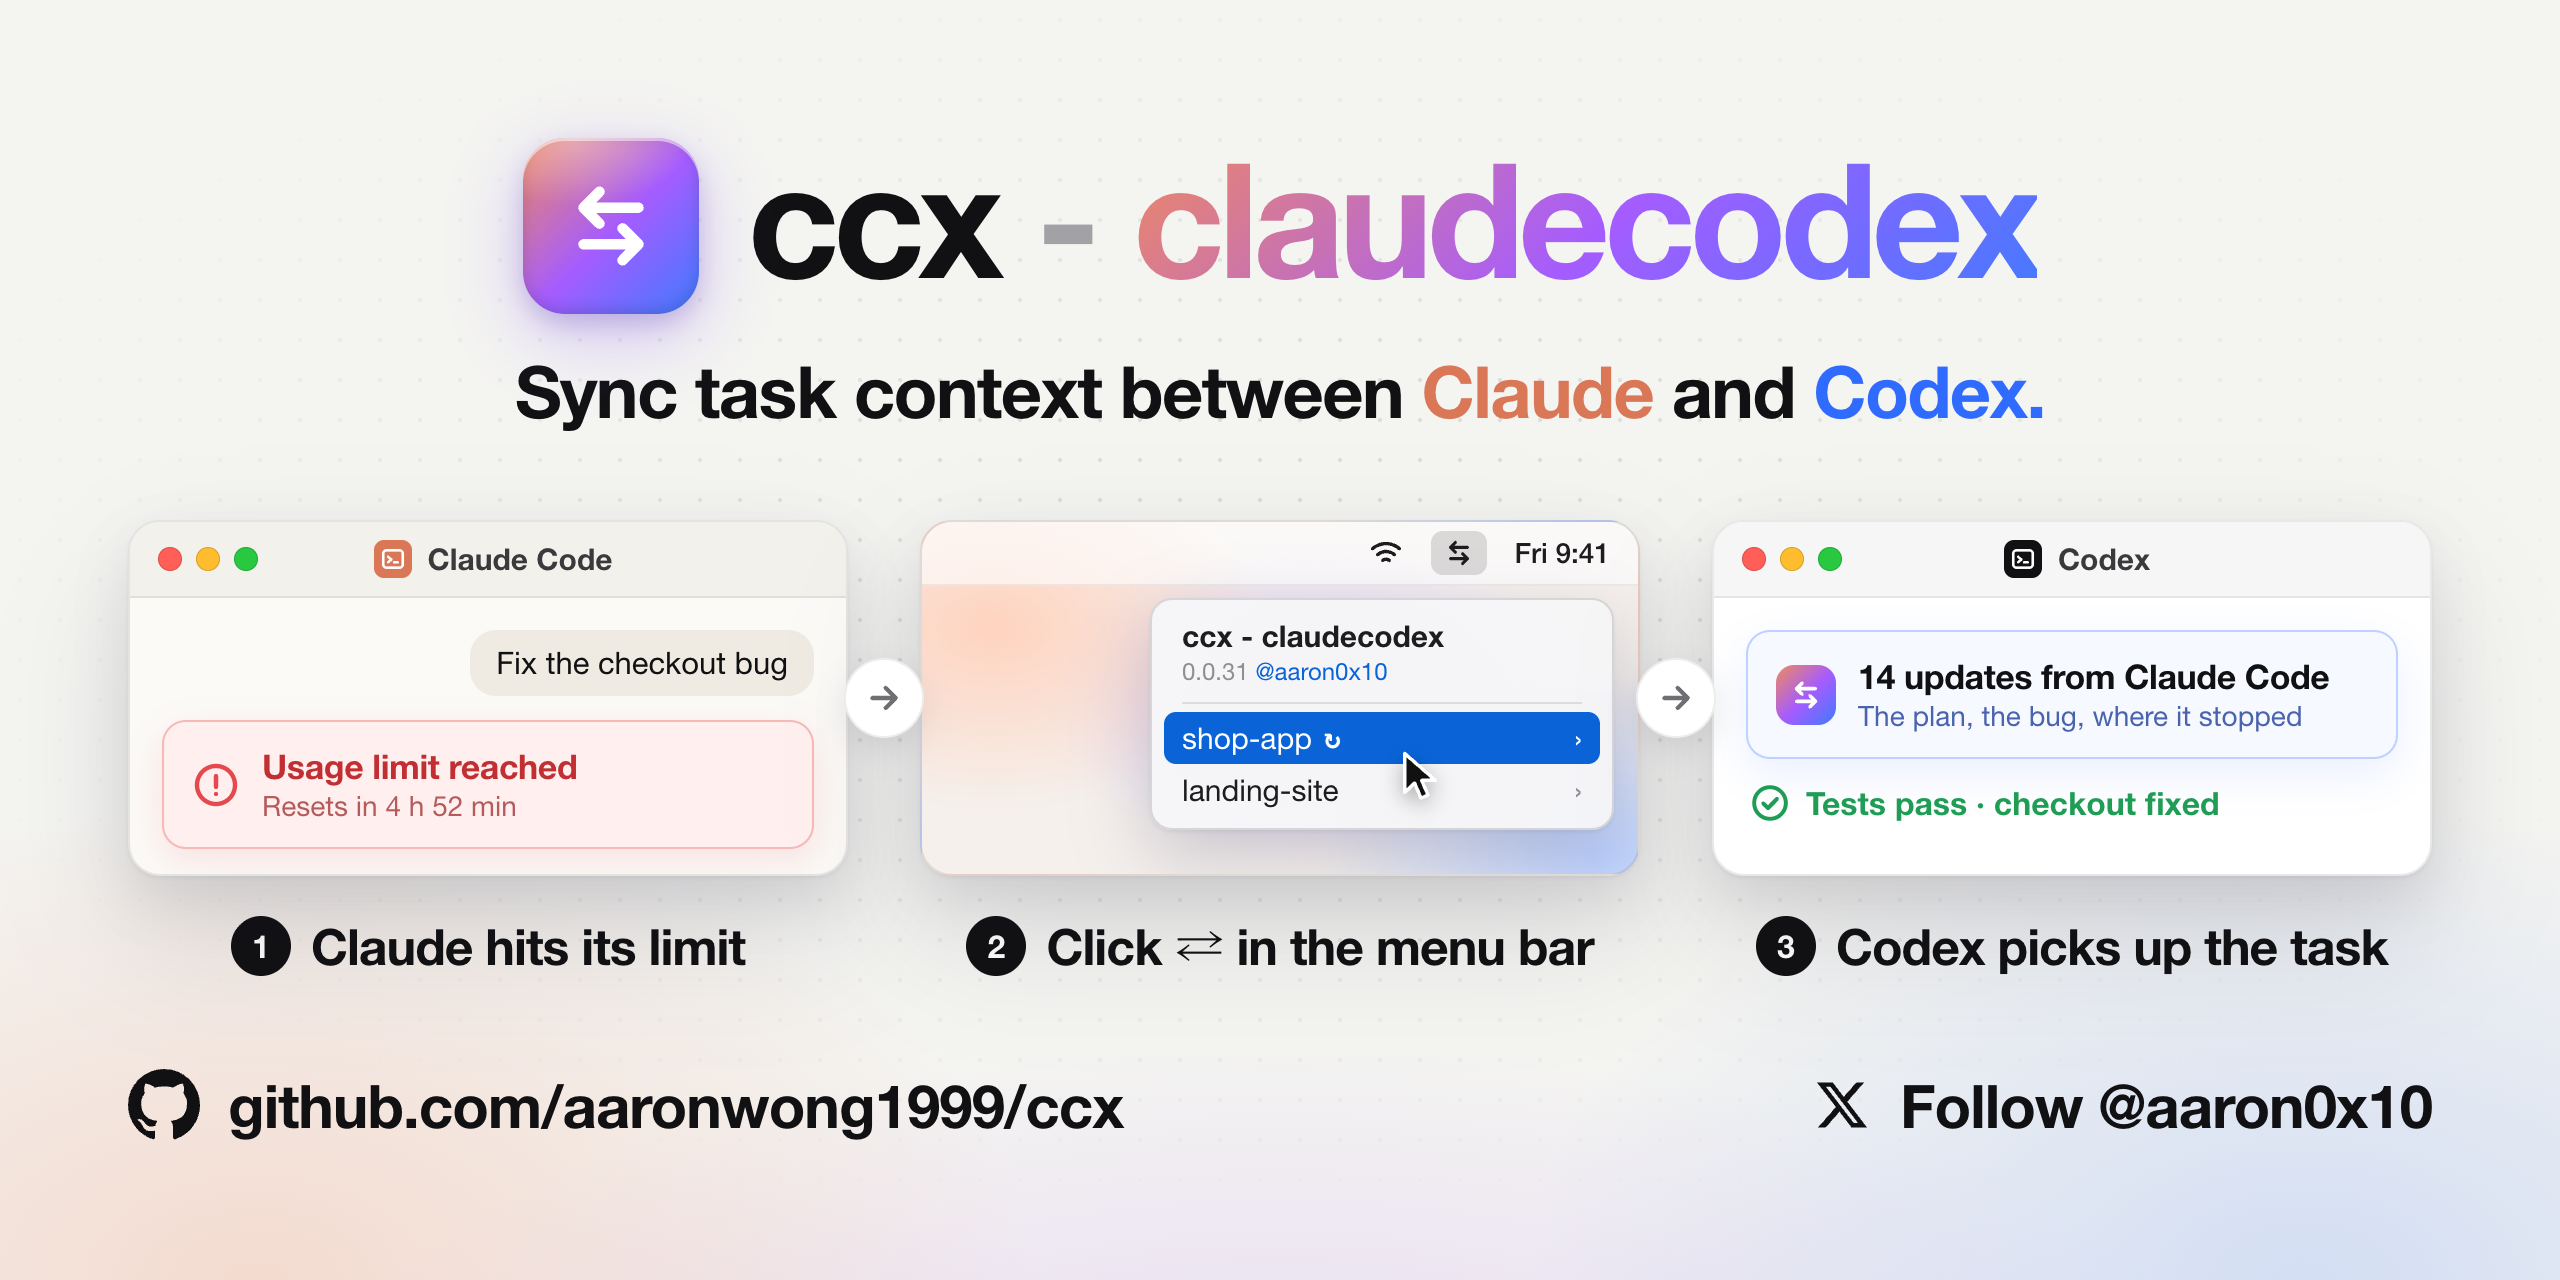
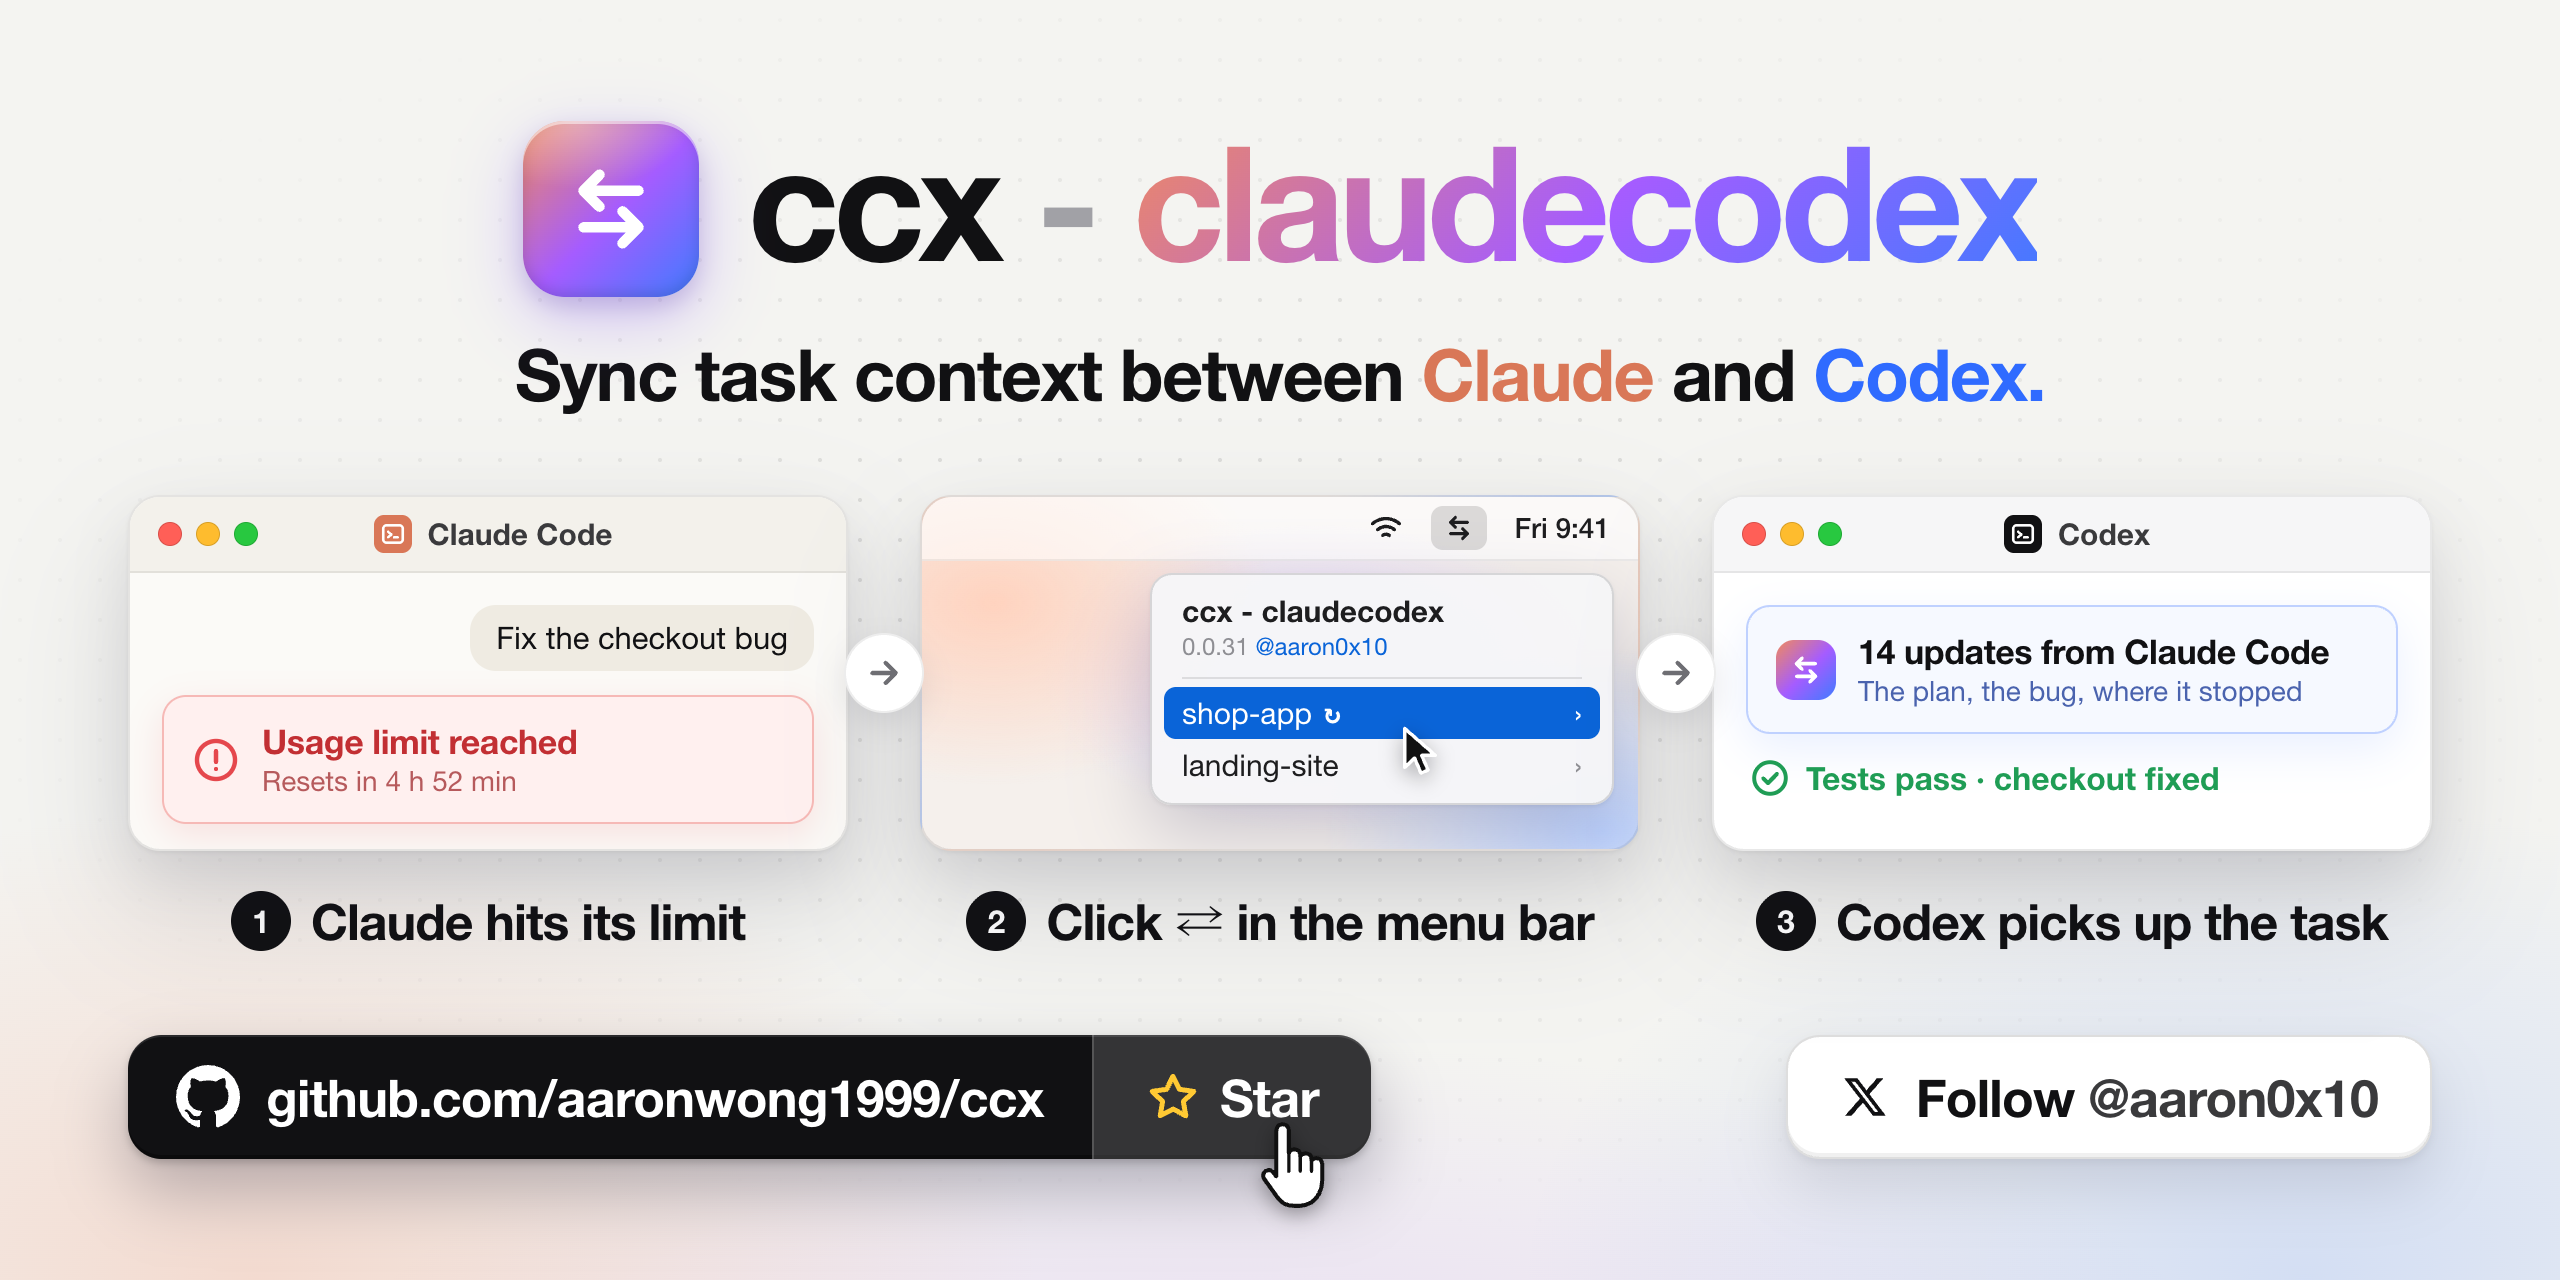
hero: Star and Follow as buttons, with a hand cursor on Star

diff --git a/docs/hero.html b/docs/hero.html
@@ -35,7 +35,7 @@
   .slogan .c1 { color: var(--claude); } .slogan .c2 { color: var(--codex); }
 
   /* how to use it: three steps, each a pared-down real screen */
-  .steps { margin-top: 44px; display: flex; gap: 36px; position: relative; }
+  .steps { margin-top: 40px; display: flex; gap: 36px; position: relative; }
   .step { flex: 1; min-width: 0; }
   .win { height: 178px; border-radius: 16px; overflow: hidden; position: relative; border: 1px solid rgba(0,0,0,.09);
          box-shadow: 0 1px 2px rgba(0,0,0,.05), 0 12px 28px rgba(20,20,45,.09), 0 30px 64px rgba(20,20,45,.12); }
@@ -91,11 +91,23 @@
   .arrow svg { width: 20px; height: 20px; color: var(--ink2); }
 
   /* where to find it: one link on each side */
-  .links { margin-top: 44px; display: flex; justify-content: space-between; align-items: center;
-           font-size: 30px; font-weight: 700; letter-spacing: -.5px; }
-  .links a { display: flex; align-items: center; gap: 14px; color: var(--ink); text-decoration: none; }
-  .links .gh { width: 36px; height: 36px; fill: var(--ink); }
-  .links .xm { width: 30px; height: 30px; fill: var(--ink); }
+  .links { margin-top: 40px; display: flex; justify-content: space-between; align-items: center;
+           font-size: 26px; letter-spacing: -.4px; }
+  .btn { height: 62px; border-radius: 17px; display: flex; align-items: stretch; overflow: hidden; color: var(--ink); text-decoration: none; }
+  .btn.gh { background: #111113; color: #fff;
+            box-shadow: inset 0 1px 0 rgba(255,255,255,.10), inset 0 -2px 0 rgba(0,0,0,.35), 0 2px 4px rgba(0,0,0,.18), 0 16px 34px rgba(20,20,45,.28); }
+  .gh .url { display: flex; align-items: center; gap: 13px; padding: 0 24px; font-weight: 650; }
+  .gh .url svg { width: 32px; height: 32px; fill: #fff; }
+  .gh .star { display: flex; align-items: center; gap: 10px; padding: 0 26px; font-weight: 700;
+              border-left: 1px solid rgba(255,255,255,.16); background: rgba(255,255,255,.15); }
+  .gh .star svg { width: 27px; height: 27px; color: #FFC933; }
+  .btn.x { background: #fff; border: 1px solid rgba(0,0,0,.13); align-items: center; gap: 13px; padding: 0 26px; font-weight: 700;
+           box-shadow: inset 0 -2px 0 rgba(0,0,0,.06), 0 2px 4px rgba(0,0,0,.05), 0 14px 30px rgba(20,20,45,.12); }
+  .btn.x svg { width: 25px; height: 25px; fill: var(--ink); }
+  .btn.x b { font-weight: 700; } .btn.x span { font-weight: 600; color: #3A3A3C; }
+  .hold { position: relative; }
+  .hand { position: absolute; left: 563px; top: 43px; width: 38px; height: 44px; z-index: 2;
+          filter: drop-shadow(0 3px 5px rgba(0,0,0,.35)); }
 </style></head>
 <body>
   <div class="glow"></div>
@@ -116,6 +128,8 @@
       <circle cx="12" cy="12" r="9.5"/><path d="M12 7.5v5.5M12 16.5v.01"/></symbol>
     <symbol id="check" viewBox="0 0 24 24" fill="none" stroke="currentColor" stroke-width="2.4" stroke-linecap="round" stroke-linejoin="round">
       <circle cx="12" cy="12" r="9.5"/><path d="m8 12.3 2.8 2.8L16.2 9.5"/></symbol>
+    <symbol id="star" viewBox="0 0 24 24" fill="none" stroke="currentColor" stroke-width="2.2" stroke-linejoin="round">
+      <path d="M12 2.8l2.85 5.78 6.38.93-4.62 4.5 1.09 6.35L12 17.36l-5.7 3 1.09-6.35-4.62-4.5 6.38-.93z"/></symbol>
   </svg>
 
   <div class="page">
@@ -169,8 +183,12 @@
     </div>
 
     <div class="links">
-      <a><svg class="gh" viewBox="0 0 16 16"><path d="M8 0C3.58 0 0 3.58 0 8c0 3.54 2.29 6.53 5.47 7.59.4.07.55-.17.55-.38 0-.19-.01-.82-.01-1.49-2.01.37-2.53-.49-2.69-.94-.09-.23-.48-.94-.82-1.13-.28-.15-.68-.52-.01-.53.63-.01 1.08.58 1.23.82.72 1.21 1.87.87 2.33.66.07-.52.28-.87.51-1.07-1.78-.2-3.64-.89-3.64-3.95 0-.87.31-1.59.82-2.15-.08-.2-.36-1.02.08-2.12 0 0 .67-.21 2.2.82.64-.18 1.32-.27 2-.27.68 0 1.36.09 2 .27 1.53-1.04 2.2-.82 2.2-.82.44 1.1.16 1.92.08 2.12.51.56.82 1.27.82 2.15 0 3.07-1.87 3.75-3.65 3.95.29.25.54.73.54 1.48 0 1.07-.01 1.93-.01 2.2 0 .21.15.46.55.38A8.013 8.013 0 0016 8c0-4.42-3.58-8-8-8z"/></svg>github.com/aaronwong1999/ccx</a>
-      <a><svg class="xm" viewBox="0 0 24 24"><path d="M17.75 3h3.07l-6.7 7.66L22 21h-6.17l-4.83-6.32L5.47 21H2.4l7.17-8.2L2 3h6.33l4.37 5.77L17.75 3zm-1.08 16.17h1.7L7.4 4.74H5.58l11.09 14.43z"/></svg>Follow @aaron0x10</a>
+      <div class="hold"><a class="btn gh">
+        <span class="url"><svg viewBox="0 0 16 16"><path d="M8 0C3.58 0 0 3.58 0 8c0 3.54 2.29 6.53 5.47 7.59.4.07.55-.17.55-.38 0-.19-.01-.82-.01-1.49-2.01.37-2.53-.49-2.69-.94-.09-.23-.48-.94-.82-1.13-.28-.15-.68-.52-.01-.53.63-.01 1.08.58 1.23.82.72 1.21 1.87.87 2.33.66.07-.52.28-.87.51-1.07-1.78-.2-3.64-.89-3.64-3.95 0-.87.31-1.59.82-2.15-.08-.2-.36-1.02.08-2.12 0 0 .67-.21 2.2.82.64-.18 1.32-.27 2-.27.68 0 1.36.09 2 .27 1.53-1.04 2.2-.82 2.2-.82.44 1.1.16 1.92.08 2.12.51.56.82 1.27.82 2.15 0 3.07-1.87 3.75-3.65 3.95.29.25.54.73.54 1.48 0 1.07-.01 1.93-.01 2.2 0 .21.15.46.55.38A8.013 8.013 0 0016 8c0-4.42-3.58-8-8-8z"/></svg>github.com/aaronwong1999/ccx</span>
+        <span class="star"><svg><use href="#star"/></svg>Star</span>
+      </a>
+      <svg class="hand" viewBox="0 0 24 28"><path d="M9 1C10.1 1 11 1.9 11 3V10.2C11.3 9.5 12 9 12.8 9C13.8 9 14.6 9.7 14.6 10.7V11.3C14.9 10.7 15.6 10.3 16.4 10.3C17.4 10.3 18.2 11 18.2 12V12.6C18.5 12.1 19.1 11.8 19.8 11.8C20.8 11.8 21.6 12.6 21.6 13.6V19C21.6 23.4 18.6 27 14.4 27H12.6C10.1 27 8.6 26 7.3 24.2L3.2 18.5C2.6 17.7 2.7 16.6 3.5 16C4.3 15.4 5.4 15.5 6 16.3L7 17.6V3C7 1.9 7.9 1 9 1Z" fill="#fff" stroke="#111" stroke-width="1.3" stroke-linejoin="round"/><path d="M11 10.2V16M14.6 11.3V16M18.2 12.6V16" stroke="#111" stroke-width="1.1" stroke-linecap="round" fill="none"/></svg></div>
+      <a class="btn x"><svg viewBox="0 0 24 24"><path d="M17.75 3h3.07l-6.7 7.66L22 21h-6.17l-4.83-6.32L5.47 21H2.4l7.17-8.2L2 3h6.33l4.37 5.77L17.75 3zm-1.08 16.17h1.7L7.4 4.74H5.58l11.09 14.43z"/></svg><b>Follow <span>@aaron0x10</span></b></a>
     </div>
   </div>
 </body></html>
